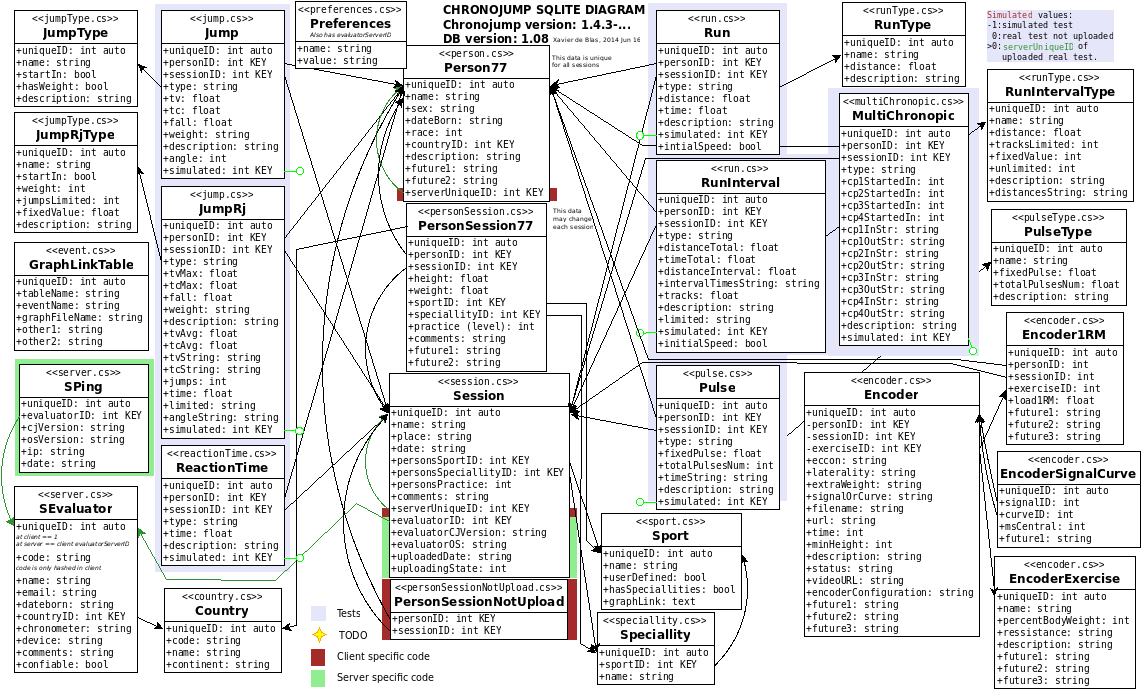
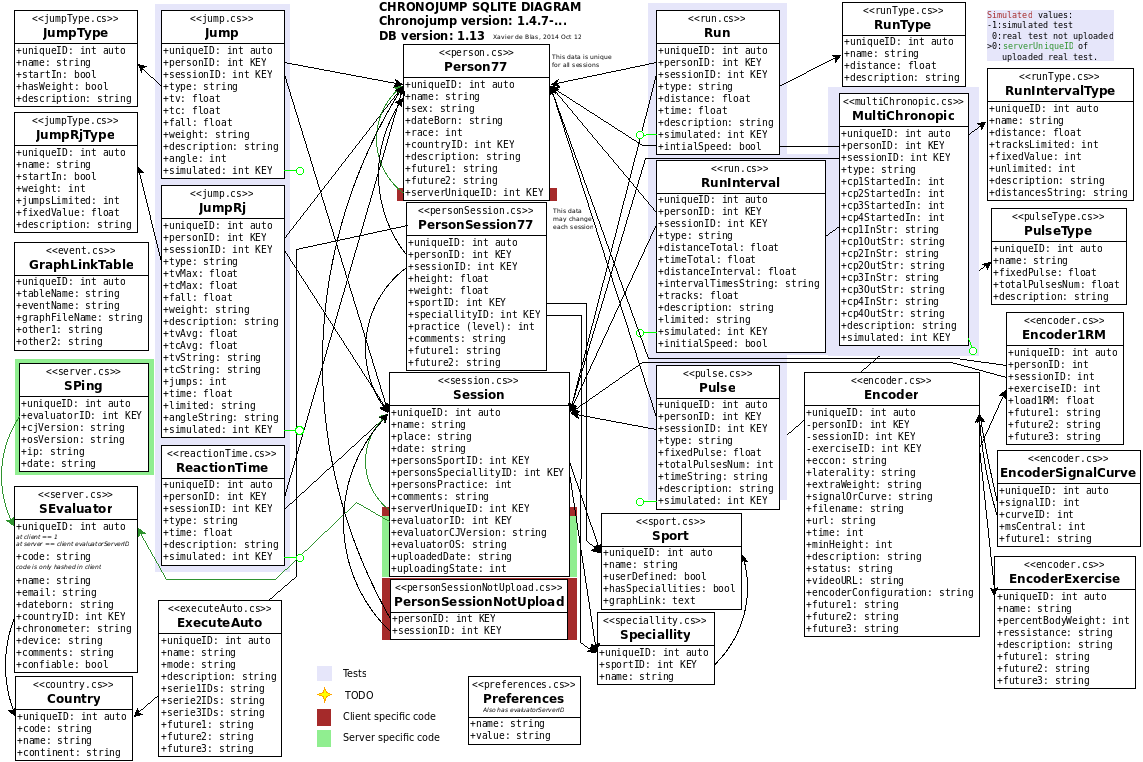
ExecuteAuto save sequence. Done!

Changed region(s): [[0.0, 0.0, 1.0, 1.0], [0.4899, 0.5774, 0.5206, 0.6078]]

diff --git a/src/gui/executeAuto.cs b/src/gui/executeAuto.cs
@@ -37,10 +37,10 @@ public class ExecuteAutoWindow
 	//1st tab
 	[Widget] Gtk.RadioButton radio_by_persons;
 	[Widget] Gtk.RadioButton radio_by_tests;
-	[Widget] Gtk.RadioButton radio_by_series;
+	[Widget] Gtk.RadioButton radio_by_sets;
 	[Widget] Gtk.Image image_auto_by_persons;
 	[Widget] Gtk.Image image_auto_by_tests;
-	[Widget] Gtk.Image image_auto_by_series;
+	[Widget] Gtk.Image image_auto_by_sets;
 	[Widget] Gtk.Label label_persons_info;
 	[Widget] Gtk.Label label_tests_info;
 	[Widget] Gtk.Label label_series_info;
@@ -61,7 +61,8 @@ public class ExecuteAutoWindow
 	[Widget] Gtk.TreeView treeview_serie2;
 	[Widget] Gtk.TreeView treeview_serie3;
 	
-	[Widget] Gtk.Entry entry_save;
+	[Widget] Gtk.Entry entry_save_name;
+	[Widget] Gtk.Entry entry_save_description;
 	[Widget] Gtk.Button button_save;
 	
 	//3rd tab
@@ -135,11 +136,11 @@ public class ExecuteAutoWindow
 		pixbuf = new Pixbuf (null, Util.GetImagePath(false) + "auto-by-tests.png");
 		image_auto_by_tests.Pixbuf = pixbuf;
 		pixbuf = new Pixbuf (null, Util.GetImagePath(false) + "auto-by-series.png");
-		image_auto_by_series.Pixbuf = pixbuf;
+		image_auto_by_sets.Pixbuf = pixbuf;
 		
 		
 		image_auto_by_tests.Sensitive = false;
-		image_auto_by_series.Sensitive = false;
+		image_auto_by_sets.Sensitive = false;
 		label_persons_info.Visible = true;
 		label_tests_info.Visible = false;
 		label_series_info.Visible = false;
@@ -152,7 +153,7 @@ public class ExecuteAutoWindow
 
 		//know if "serie" has to be plotted or not
 		ExecuteAuto eaFirst = (ExecuteAuto) orderedData[0];
-		createTreeview(eaFirst.serieID != -1);	//BY_SERIES != -1
+		createTreeview(eaFirst.serieID != -1);	//BY_SETS != -1
 		fillTreeview();
 	
 		//set the selected
@@ -177,11 +178,11 @@ public class ExecuteAutoWindow
 	private void on_radio_mode_toggled(object o, EventArgs args) {
 		image_auto_by_persons.Sensitive = radio_by_persons.Active;
 		image_auto_by_tests.Sensitive = radio_by_tests.Active;
-		image_auto_by_series.Sensitive = radio_by_series.Active;
+		image_auto_by_sets.Sensitive = radio_by_sets.Active;
 
 		label_persons_info.Visible = radio_by_persons.Active;
 		label_tests_info.Visible = radio_by_tests.Active;
-		label_series_info.Visible = radio_by_series.Active;
+		label_series_info.Visible = radio_by_sets.Active;
 	}
 
 	
@@ -273,29 +274,29 @@ public class ExecuteAutoWindow
 					new String [] { treeviewSerie3Array.Count.ToString(), tc.trName } );
 		}
 		
-		button_save.Sensitive = (treeviewSerie1Array.Count > 0 && entry_save.Text.ToString().Length > 0);
+		button_save.Sensitive = (treeviewSerie1Array.Count > 0 && entry_save_name.Text.ToString().Length > 0);
 		
 		//a test is added, sensitivize "next" button
 		button_next.Sensitive = true;
 	}
 
 
-	private void on_entry_save_changed(object o, EventArgs args) 
+	private void on_entry_save_name_changed(object o, EventArgs args) 
 	{
-		button_save.Sensitive = (treeviewSerie1Array.Count > 0 && entry_save.Text.ToString().Length > 0);
+		button_save.Sensitive = (treeviewSerie1Array.Count > 0 && entry_save_name.Text.ToString().Length > 0);
 	}
 
 	private void on_button_save_clicked(object o, EventArgs args) 
 	{
-		//si no existeix a la BD amab aquest nom...
-		//new DialogMessage(Constants.MessageTypes.INFO, string.Format(
-		//			//Catalog.GetString("Sorry, this sport '{0}' already exists in database"), 
-		//			"will save this stuff: '{0}'", 
-		//			entry_save.Text.ToString()));
-
-		ExecuteAutoSQL eaSQL = new ExecuteAutoSQL(entry_save.Text.ToString(), mode, 
+		ExecuteAutoSQL eaSQL = new ExecuteAutoSQL(entry_save_name.Text.ToString(), mode, entry_save_description.Text.ToString(), 
 				getTrComboInts(treeviewSerie1Array), getTrComboInts(treeviewSerie2Array), getTrComboInts(treeviewSerie3Array));
-		eaSQL.SaveToSQL();
+		bool saved = eaSQL.SaveToSQL();
+		
+		if(saved)
+			new DialogMessage(Constants.MessageTypes.INFO, Catalog.GetString("Saved"));
+		else
+			new DialogMessage(Constants.MessageTypes.WARNING, 
+					String.Format(Catalog.GetString("Sorry, this sequence '{0}' already exists in database"), eaSQL.name));
 	}
 
 	private List<int> getTrComboInts(ArrayList arrayTrCombo) {
@@ -328,8 +329,8 @@ public class ExecuteAutoWindow
 	}
 	
 	TreeStore store;
-	private void createTreeview(bool by_series) {
-		if(by_series)
+	private void createTreeview(bool by_sets) {
+		if(by_sets)
 			store = new TreeStore(typeof (string), typeof (string), typeof (string)); //serie, person, test
 		else
 			store = new TreeStore(typeof (string), typeof (string));		//person, test
@@ -338,7 +339,7 @@ public class ExecuteAutoWindow
 		treeview.HeadersVisible=true;
 
 		int i = 0;
-		if(by_series) {
+		if(by_sets) {
 			UtilGtk.CreateCols(treeview, store, Catalog.GetString("Serie"), i++, true);
 		}
 
@@ -358,10 +359,10 @@ public class ExecuteAutoWindow
 			mode = ExecuteAuto.ModeTypes.BY_PERSONS;
 			if(radio_by_tests.Active)
 				mode = ExecuteAuto.ModeTypes.BY_TESTS;
-			else if(radio_by_series.Active)
-				mode = ExecuteAuto.ModeTypes.BY_SERIES;
+			else if(radio_by_sets.Active)
+				mode = ExecuteAuto.ModeTypes.BY_SETS;
 
-			showSeriesStuff(radio_by_series.Active);
+			showSeriesStuff(radio_by_sets.Active);
 			notebook.NextPage();
 		
 			//next button will be sensitive when first test is added
@@ -372,7 +373,7 @@ public class ExecuteAutoWindow
 			orderedData = ExecuteAuto.CreateOrder(mode, persons,  
 					treeviewSerie1Array, treeviewSerie2Array, treeviewSerie3Array);
 			
-			createTreeview(radio_by_series.Active);
+			createTreeview(radio_by_sets.Active);
 			fillTreeview();
 
 			button_next.Label = Catalog.GetString("Accept");

diff --git a/src/sqlite/executeAuto.cs b/src/sqlite/executeAuto.cs
@@ -1,0 +1,80 @@
+/*
+ * This file is part of ChronoJump
+ *
+ * ChronoJump is free software; you can redistribute it and/or modify
+ *  it under the terms of the GNU General Public License as published by
+ *   the Free Software Foundation; either version 2 of the License, or   
+ *    (at your option) any later version.
+ *    
+ * ChronoJump is distributed in the hope that it will be useful,
+ *  but WITHOUT ANY WARRANTY; without even the implied warranty of
+ *   MERCHANTABILITY or FITNESS FOR A PARTICULAR PURPOSE.  See the 
+ *    GNU General Public License for more details.
+ *
+ * You should have received a copy of the GNU General Public License
+ *  along with this program; if not, write to the Free Software
+ *   Foundation, Inc., 59 Temple Place, Suite 330, Boston, MA  02111-1307  USA
+ *
+ * Copyright (C) 2004-2014   Xavier de Blas <xaviblas@gmail.com> 
+ */
+
+using System;
+using System.Data;
+using System.IO;
+using System.Collections; //ArrayList
+using Mono.Data.Sqlite;
+
+
+class SqliteExecuteAuto : Sqlite
+{
+	public SqliteExecuteAuto() {
+	}
+	
+	~SqliteExecuteAuto() {}
+
+	/*
+	 * create and initialize tables
+	 */
+	
+	protected internal static void createTableExecuteAuto()
+	{
+		dbcmd.CommandText = 
+			"CREATE TABLE " + Constants.ExecuteAutoTable + " ( " +
+			"uniqueID INTEGER PRIMARY KEY, " +
+			"name TEXT, " +	
+			"mode TEXT, " +	
+			"description TEXT, " +	
+			"serie1IDs TEXT, " +	
+			"serie2IDs TEXT, " +	
+			"serie3IDs TEXT, " +	
+		       	"future1 TEXT, " +
+		       	"future2 TEXT, " + 
+		       	"future3 TEXT )";
+		dbcmd.ExecuteNonQuery();
+	}
+	
+	/*
+	 * class methods
+	 */
+	
+	public static void Insert(bool dbconOpened, string name, string mode, string description, string serie1IDs, string serie2IDs, string serie3IDs)
+	{
+		if(! dbconOpened)
+			dbcon.Open();
+
+		dbcmd.CommandText = "INSERT INTO " + Constants.ExecuteAutoTable +  
+			" (uniqueID, name, mode, description, " +
+			" serie1IDs, serie2IDs, serie3IDs, " + 
+			" future1, future2, future3)" +
+			" VALUES ( NULL, '" +
+			name + "', '" + mode + "', '" + description + "', '" +
+			serie1IDs + "', '" + serie2IDs + "', '" + serie3IDs + "', " + 
+			"'', '', '')"; //future1, future2, future3
+		Log.WriteLine(dbcmd.CommandText.ToString());
+		dbcmd.ExecuteNonQuery();
+
+		if(! dbconOpened)
+			dbcon.Close();
+	}
+
+}	

diff --git a/src/executeAuto.cs b/src/executeAuto.cs
@@ -23,10 +23,10 @@ using System.Collections; //ArrayList
 using System.Collections.Generic; //List<T>
 
 public class ExecuteAuto {
-	public enum ModeTypes { BY_PERSONS, BY_TESTS, BY_SERIES }
+	public enum ModeTypes { BY_PERSONS, BY_TESTS, BY_SETS }
 	private ModeTypes mode;
 	
-	public int serieID;	//only in BY_SERIES (in BY_PERSONS or BY_TESTS, value is -1)
+	public int serieID;	//only in BY_SETS (in BY_PERSONS or BY_TESTS, value is -1)
 	public int personUniqueID;
 	public string personName;
 	public int testUniqueID;
@@ -118,21 +118,22 @@ public class ExecuteAuto {
 	~ExecuteAuto() {}	
 }
 
+//sequence saved or loaded on SQL
 public class ExecuteAutoSQL 
 {
-	private string name;
+	public string name;
 	private ExecuteAuto.ModeTypes mode;
+	private string description;
 	private List<int> serie1IDs;
 	private List<int> serie2IDs;
 	private List<int> serie3IDs;
-	//private string future1;
-	//private string future2;
-	//private string future3;
 	
-	public ExecuteAutoSQL(string name, ExecuteAuto.ModeTypes mode, List<int> serie1IDs, List<int> serie2IDs, List<int> serie3IDs) 
+	public ExecuteAutoSQL(string name, ExecuteAuto.ModeTypes mode, string description, 
+			List<int> serie1IDs, List<int> serie2IDs, List<int> serie3IDs) 
 	{
 		this.name = name;
 		this.mode = mode;
+		this.description = description;
 		this.serie1IDs = serie1IDs;
 		this.serie2IDs = serie2IDs;
 		this.serie3IDs = serie3IDs;
@@ -149,13 +150,16 @@ public class ExecuteAutoSQL
 		}
 		return str;
 	}
-	public void SaveToSQL() 
-	{
-		Log.WriteLine(name + "\n" + mode + "\n" + serieIDsToStr(serie1IDs) + "\n" + serieIDsToStr(serie2IDs) + "\n" + serieIDsToStr(serie3IDs));
-		
-		//TODO: send this to SQL, and add there the future1, future2, future3 strs
-		//SqliteExecuteAuto.Save(false, name, mode, serieIDsToStr(serie1IDs), serieIDsToStr(serie2IDs), serieIDsToStr(serie3IDs));
 
+	public bool SaveToSQL() 
+	{
+		if(Sqlite.Exists(false, Constants.ExecuteAutoTable, name))
+			return false; //not saved because name exists
+
+		SqliteExecuteAuto.Insert(false, name, mode.ToString(), description, 
+				serieIDsToStr(serie1IDs), serieIDsToStr(serie2IDs), serieIDsToStr(serie3IDs));
+			
+		return true; //saved
 	}
 
 	~ExecuteAutoSQL() {}	

diff --git a/src/sqlite/main.cs b/src/sqlite/main.cs
@@ -74,7 +74,7 @@ class Sqlite
 	 * Important, change this if there's any update to database
 	 * Important2: if database version get numbers higher than 1, check if the comparisons with currentVersion works ok
 	 */
-	static string lastChronojumpDatabaseVersion = "1.12";
+	static string lastChronojumpDatabaseVersion = "1.13";
 
 	public Sqlite() {
 	}
@@ -1649,6 +1649,17 @@ class Sqlite
 
 				currentVersion = "1.12";
 			}
+			if(currentVersion == "1.12") {
+				dbcon.Open();
+			
+				Log.WriteLine("Added ExecuteAuto table");
+				
+				SqliteExecuteAuto.createTableExecuteAuto();
+				SqlitePreferences.Update ("databaseVersion", "1.13", true); 
+				dbcon.Close();
+
+				currentVersion = "1.13";
+			}
 				
 		}
 
@@ -1788,8 +1799,11 @@ class Sqlite
 		creationRate ++;
 		SqliteCountry.createTable();
 		SqliteCountry.initialize();
+				
+		SqliteExecuteAuto.createTableExecuteAuto();
 		
 		//changes [from - to - desc]
+		//1.12 - 1.13 Converted DB to 1.13 Added ExecuteAuto table
 		//1.11 - 1.12 Converted DB to 1.12 URLs from absolute to relative
 		//1.10 - 1.11 Converted DB to 1.11 Added option on autosave curves on capture (all/bestmeanpower/none)
 		//1.09 - 1.10 Converted DB to 1.10 Added RSA RAST on runType

diff --git a/src/constants.cs b/src/constants.cs
@@ -132,6 +132,7 @@ public class Constants
 	public const string EncoderSignalCurveTable = "encoderSignalCurve";
 	public const string EncoderExerciseTable = "encoderExercise";
 	public const string Encoder1RMTable = "encoder1RM";
+	public const string ExecuteAutoTable = "executeAuto";
 
 	//tests types
 	public const string JumpTypeTable = "jumpType";
